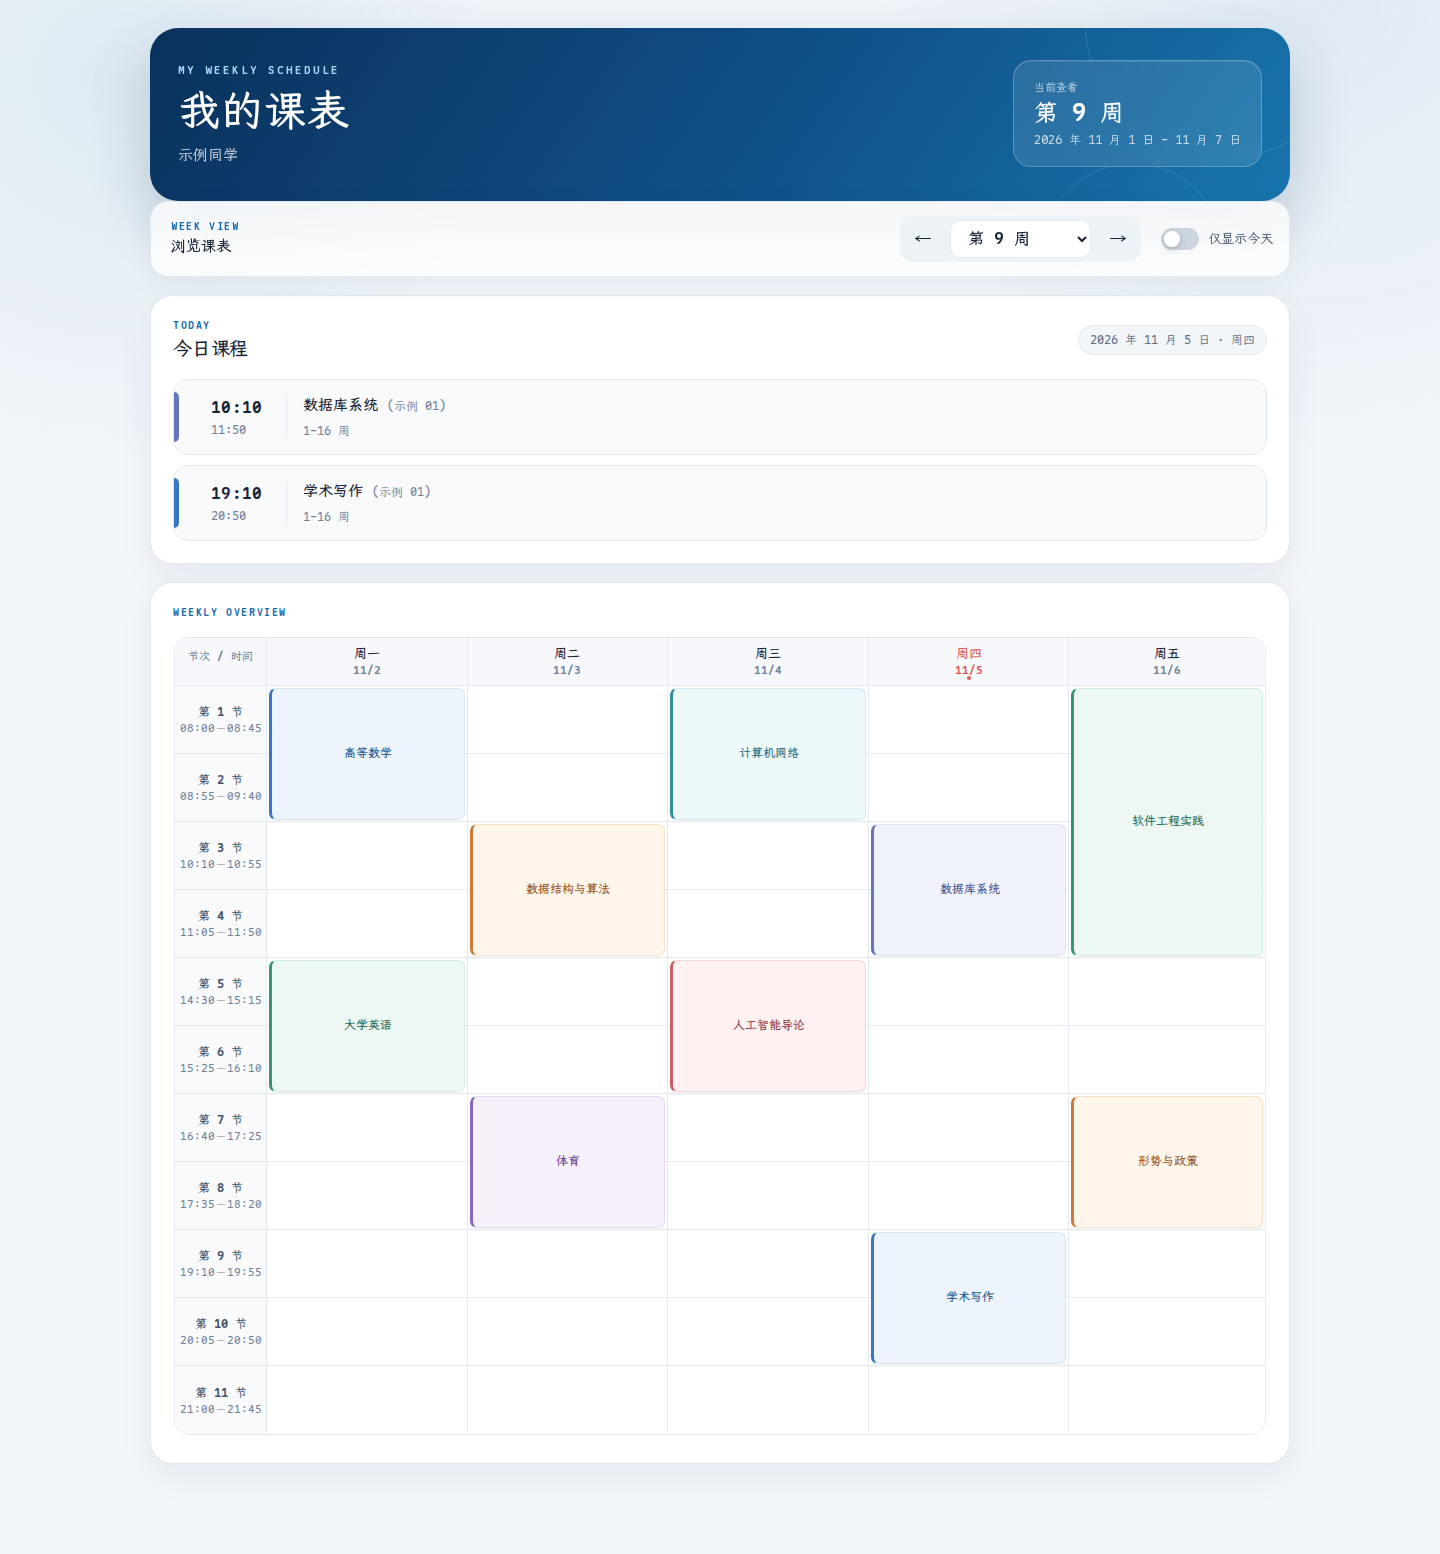
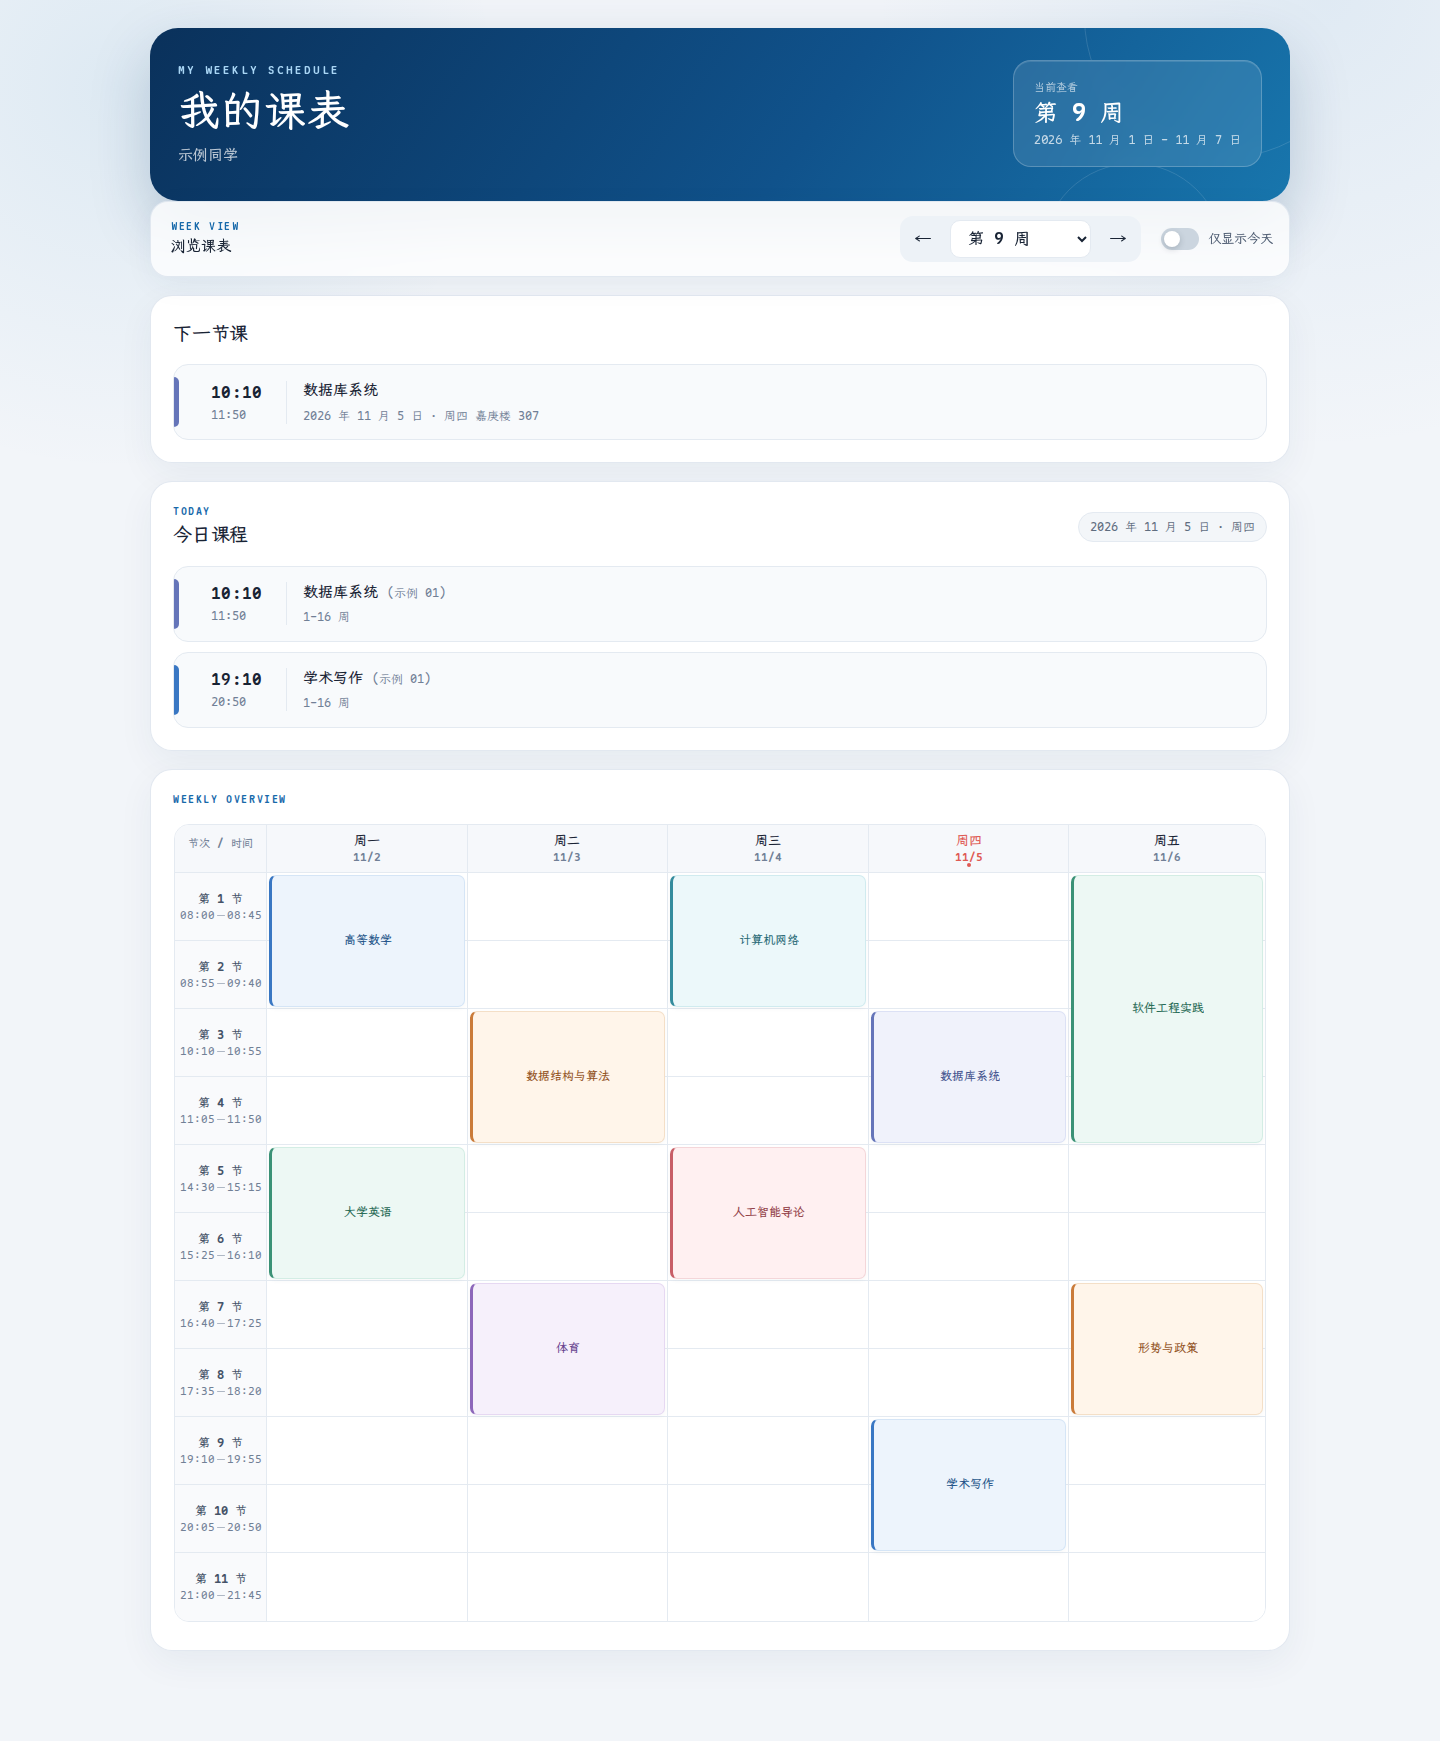
docs: describe next lesson behavior and refresh demo screenshot

diff --git a/docs/guide.md b/docs/guide.md
@@ -62,6 +62,12 @@ python fetch_schedule.py --out out/my.html       # 指定输出路径
 
 运行后默认生成 `schedule.html`。该文件包含个人课表数据，默认被 `.gitignore` 忽略；如果要部署页面，请确认其中没有不希望公开的信息。
 
+### 下一节课
+
+“今日课程”上方显示下一节课的名称、日期、时间和教室，点击可查看详情。页面按开始时间选择满足 `当前时间 <= 课程结束时间` 的第一节课，因此正在上的课也会显示；超过结束时间后自动切换，可以跨天、跨周查找。
+
+该卡片按实际时间和完整学期课表计算，不受切换周次或“仅显示今天”影响。没有后续课程时显示“暂无后续课程”。需要有效的学期开始日期；若接口未提供，请填写 `start_date`。
+
 ## 应用图标
 
 页面已内置一套与界面配色一致的应用图标（蓝色渐变背景 + 日历课表卡片）：
@@ -83,13 +89,16 @@ python3 tools/make_icons.py
 
 ```sh
 node test/week.mjs
+node test/next-lesson.mjs
 python test/build_html.py
 python tools/build_demo.py
 ```
 
-浏览器回归使用 Playwright：安装后运行 `node test/ui.cjs`，或通过 `PLAYWRIGHT_MODULE` 指定现有安装路径。CI 会检查 320 / 390 / 768 / 1440 像素视口、单日模式与弹窗键盘操作。所有课程均为模拟数据。
+浏览器回归使用 Playwright：安装后运行 `node test/ui.cjs`，或通过 `PLAYWRIGHT_MODULE` 指定现有安装路径。CI 会检查 320 / 390 / 768 / 1440 像素视口、单日模式、下一节课的自动切换与弹窗键盘操作。所有课程均为模拟数据。
 
 周次回归覆盖开学前、学期内、学期后及周日边界。演示页面由同一模板和 `docs/schedule-demo.json` 中的模拟数据生成，不读取个人配置或访问教务。
+
+下一节课回归覆盖正在上课、结束时间等号边界、跨天与跨周、周次过滤、节次时间补全及无课状态。
 
 ## 示例字体
 

diff --git a/README.md b/README.md
@@ -7,6 +7,7 @@
 ## 功能
 
 - 自动定位本周，支持切换周次。
+- 显示下一节尚未结束的课，包含正在上的课，结束后自动切换，支持跨天、跨周。
 - 周视图展示周一至周五，今日视图包含周末课程。
 - 点击课程查看教师、教室、班级、上课时间和周次。
 - 手机端支持单列今日视图。
